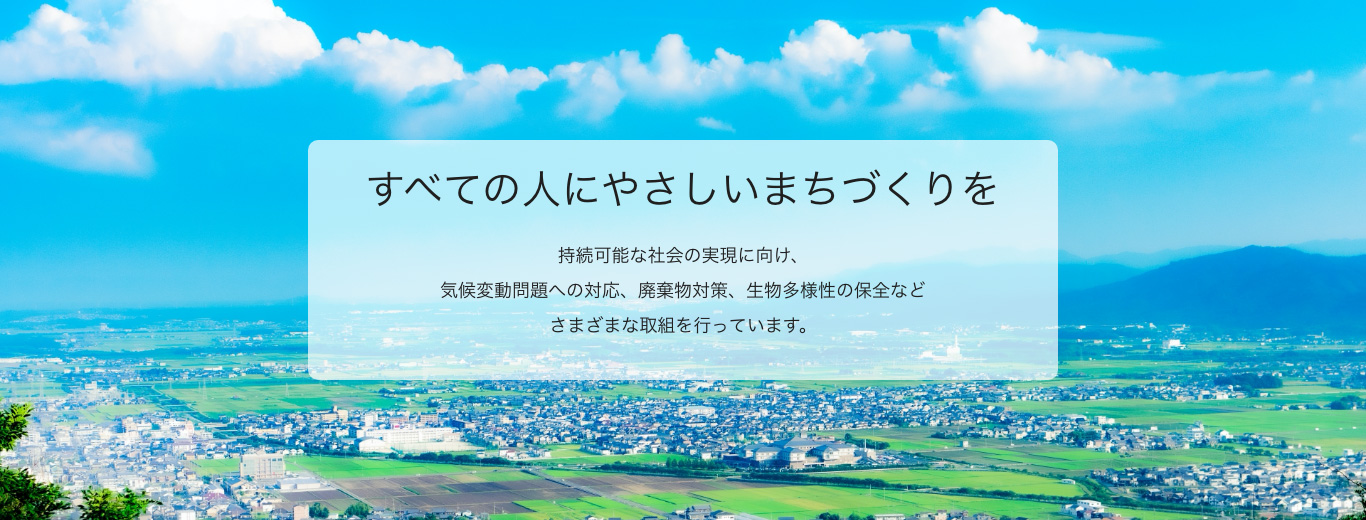
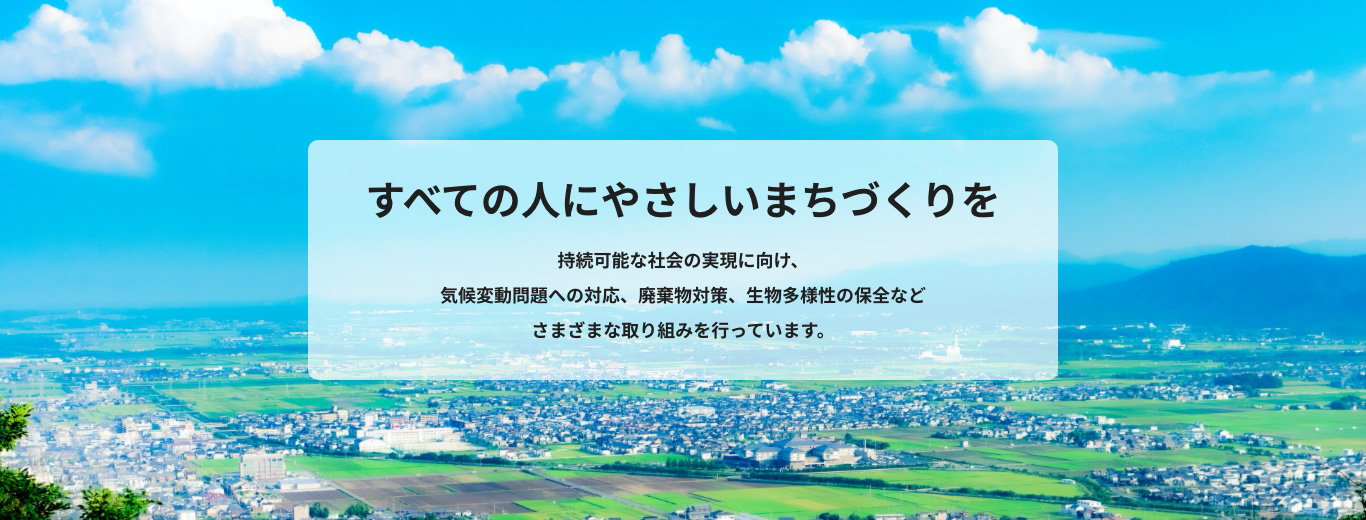
slide ok and ng(2.2.2c)

Changed region(s): [[0.246, 0.3385, 0.7379, 0.4308], [0.3075, 0.4615, 0.6764, 0.5846], [0.369, 0.6154, 0.6149, 0.6462]]

diff --git a/practice/css/style.css b/practice/css/style.css
@@ -326,11 +326,11 @@ input[type=button] {
 	margin-right: 12px;
 }
 #slide-play {
-	width: 44px;
-	height: 44px;
-	line-height: 44px;
-	font-size: 20px;
-	right: calc( 2.928% - 1px );
+	width: 36px;
+	height: 36px;
+	line-height: 36px;
+	font-size: 15px;
+	right: calc( 2.928% + 5px );
 	bottom: 35px;
 }
 #slide-play.bttn-pause .visually-hidden.play,

diff --git a/practice/index.php b/practice/index.php
@@ -22,77 +22,7 @@
 	<?php echoPracticeHtml('2.4.3') ?>
 <main id="main">
 <div id="toppage-image" class="full-width">
-<?php // echoPracticeHtml('2.1.1b') ?>
-	<div id="main-slide">
-		<div id="slide-utilities">
-			<button type="button" id="slide-prev" class="bttn slide-ctrl"><span class="visually-hidden">前のスライド</span></button>
-			<button type="button" id="slide-next" class="bttn slide-ctrl"><span class="visually-hidden">次のスライド</span></button>
-			<button type="button" id="slide-play" class="bttn bttn-pause fa fa-pause"><span class="visually-hidden pause">一時停止</span><span class="visually-hidden play">再生</span></button>
-		</div>
-		<div id="slide-wrapper">
-			<img src="./images/main-image-2_a.jpg" class="main-image" alt="スライド１：「すべての人にやさしいまちづくりを」持続可能な社会の実現に向け、気候変動問題への対応、廃棄物対策、生物多様性の保全など、さまざまな取組を行っています。" width="1366" height="520">
-			<img src="./images/main-image-2_b.jpg" class="main-image" alt="画像２" width="1366" height="520">
-			<img src="./images/main-image-2_c.jpg" class="main-image" alt="画像３" width="1366" height="520">
-		</div>
-	</div>
-<script>
-jQuery(function($){
-	const interval      = 7000,
-				speed         = 500,
-				slide_wrapper = $('#slide-wrapper'),
-				bttn_slide    = $('#slide-utilities').find('.slide-ctrl'),
-				bttn_play     = $('#slide-play');
-	let slides = slide_wrapper.find('.main-image'),
-			current = slides.eq(0),
-			flg = false,
-			dir = false,
-			timeoutID;
-	slide_wrapper.prepend(slides.not(current).clone()).append(current.clone());
-	slides = slide_wrapper.find('.main-image');
-	slides.not(current).attr({'aria-hidden':true});
-	slide_wrapper.addClass('on');
-
-	timeoutID = setTimeout(() => {slide_play()}, interval);
-	bttn_slide.on('click', slide_play);
-
-	bttn_play.on('click', function(){
-		$(this).toggleClass('bttn-play fa-play bttn-pause fa-pause');
-		flg = $(this).hasClass('bttn-play');
-		if(! flg){
-			slide_play()
-		}
-	});
-
-	function slide_play(){
-		if(flg) return;
-		flg = true;
-		dir = event && event.target.id == 'slide-prev';
-		slides.css({
-			transform : 'translate3d('+(dir ? '' : '-')+'100%, 0, 0) ',
-			transition: 'transform '+speed+'ms ease-out'
-		});
-		setTimeout(function(){
-			slides.css({transition: 'transform 0s'})
-			if(dir){
-				slides.eq(-1).prependTo(slide_wrapper);
-				current = slides.eq(slides.index(current)-1);
-			}else{
-				slides.eq(0).appendTo(slide_wrapper);
-				current = slides.eq(slides.index(current)+1);
-			}
-			slides = slide_wrapper.find('.main-image').css({transform: 'translate3d(0,0,0)'}).attr({'aria-hidden':true});
-			current.removeAttr('aria-hidden');
-			flg = false;
-		}, speed);
-
-		// for autoplay
-		if(!(event && $(event.target).hasClass('.slide-ctrl'))){
-			clearTimeout(timeoutID);
-			timeoutID = setTimeout(() => {slide_play()}, interval);
-		}
-	}
-});
-</script>
+<?php echoPracticeHtml('2.1.1b') ?>
 </div>
 <div id="toppage-message">
 	<div class="image"><img src="./images/mascot-chikyu-kun.png" width="153" height="184" alt="ちきゅうくん"></div>

diff --git a/parts/2.1.1b_ok2.php b/parts/2.1.1b_ok2.php
@@ -1,0 +1,70 @@
+<?php /* altが妥当でキーボード操作可能なスライドショー */ ?>
+	<div id="main-slide">
+		<div id="slide-utilities">
+			<button type="button" id="slide-prev" class="bttn slide-ctrl"><span class="visually-hidden">前のスライド</span></button>
+			<button type="button" id="slide-next" class="bttn slide-ctrl"><span class="visually-hidden">次のスライド</span></button>
+<?php echoPracticeHtml('2.2.2c') ?>
+		</div>
+		<div id="slide-wrapper">
+			<img src="./images/main-image-2_a.jpg" class="main-image" alt="スライド１：「すべての人にやさしいまちづくりを」持続可能な社会の実現に向け、気候変動問題への対応、廃棄物対策、生物多様性の保全など、さまざまな取組を行っています。" width="1366" height="520">
+			<img src="./images/main-image-2_b.jpg" class="main-image" alt="スライド２：「未来の笑顔のために」市民一人一人の小さな取り組みが、未来の笑顔につながっています。今、あなたにできることからはじめてみましょう！" width="1366" height="520">
+			<img src="./images/main-image-2_c.jpg" class="main-image" alt="画像３" width="1366" height="520">
+		</div>
+	</div>
+<script>
+jQuery(function($){
+	const interval      = 5000,
+				speed         = 500,
+				slide_wrapper = $('#slide-wrapper'),
+				bttn_slide    = $('#slide-utilities').find('.slide-ctrl'),
+				bttn_play     = $('#slide-play');
+	let slides = slide_wrapper.find('.main-image'),
+			current = slides.eq(0),
+			flg = false,
+			flg_pause = false,
+			dir = false,
+			timeoutID;
+	slide_wrapper.prepend(slides.not(current).clone()).append(current.clone());
+	slides = slide_wrapper.find('.main-image');
+	slides.not(current).attr({'aria-hidden':true});
+	slide_wrapper.addClass('on');
+	timeoutID = setTimeout(() => {slide_play()}, interval);
+
+	bttn_slide.on('click', slide_play);
+	bttn_play.on('click', toggle_play);
+
+	function slide_play(){
+		let is_slide_ctrl = event && $(event.target).hasClass('slide-ctrl');
+		if( (flg_pause && ! is_slide_ctrl) || ( ! flg_pause && flg) ) return;
+		flg = true;
+		dir = event && event.target.id == 'slide-prev';
+		slides.css({
+			transform : 'translate3d('+(dir ? '' : '-')+'100%, 0, 0) ',
+			transition: 'transform '+speed+'ms ease-out'
+		});
+		setTimeout(function(){
+			slides.css({transition: 'transform 0s'})
+			if(dir){
+				slides.eq(-1).prependTo(slide_wrapper);
+				current = slides.eq(slides.index(current)-1);
+			}else{
+				slides.eq(0).appendTo(slide_wrapper);
+				current = slides.eq(slides.index(current)+1);
+			}
+			slides = slide_wrapper.find('.main-image').css({transform: 'translate3d(0,0,0)'}).attr({'aria-hidden':true});
+			current.removeAttr('aria-hidden');
+			flg = false;
+		}, speed);
+
+		clearTimeout(timeoutID);
+		timeoutID = setTimeout(() => {slide_play()}, interval);
+	}
+	function toggle_play(){
+		bttn_play.toggleClass('bttn-play fa-play bttn-pause fa-pause');
+		flg_pause = bttn_play.hasClass('bttn-play');
+		if(! flg_pause){
+			slide_play()
+		}
+	}
+});
+</script>

diff --git a/parts/2.1.1b_ok.php b/parts/2.1.1b_ok.php
@@ -1,2 +1,2 @@
 <?php /* altが妥当でキーボード操作によって情報取得できる提供 */ ?>
-<img src="./images/main-image1-alt.jpg" class="main-image" alt="〜すべての人にやさしいまちづくりを〜 持続可能な社会の実現に向け、気候変動問題への対応、廃棄物対策、生物多様性の保全などさまざまな取組を行っています。">
+<img src="./images/main-image1-alt.jpg" class="main-image" alt="「すべての人にやさしいまちづくりを」持続可能な社会の実現に向け、気候変動問題への対応、廃棄物対策、生物多様性の保全など、さまざまな取組を行っています。">

diff --git a/parts/2.2.2c_ng1.php b/parts/2.2.2c_ng1.php
@@ -1,0 +1,2 @@
+<?php /* スライドショーがある場合、自動再生の停止ボタンなし */ ?>
+			<button type="button" id="slide-play" class="bttn bttn-pause fa fa-pause"><span class="visually-hidden pause">一時停止</span><span class="visually-hidden play">再生</span></button>

diff --git a/parts/2.2.2c_ok.php b/parts/2.2.2c_ok.php
@@ -1,0 +1,2 @@
+<?php /* スライドショーがある場合、自動再生の停止ボタン */ ?>
+			<button type="button" id="slide-play" class="bttn bttn-pause fa fa-pause"><span class="visually-hidden pause">一時停止</span><span class="visually-hidden play">再生</span></button>
